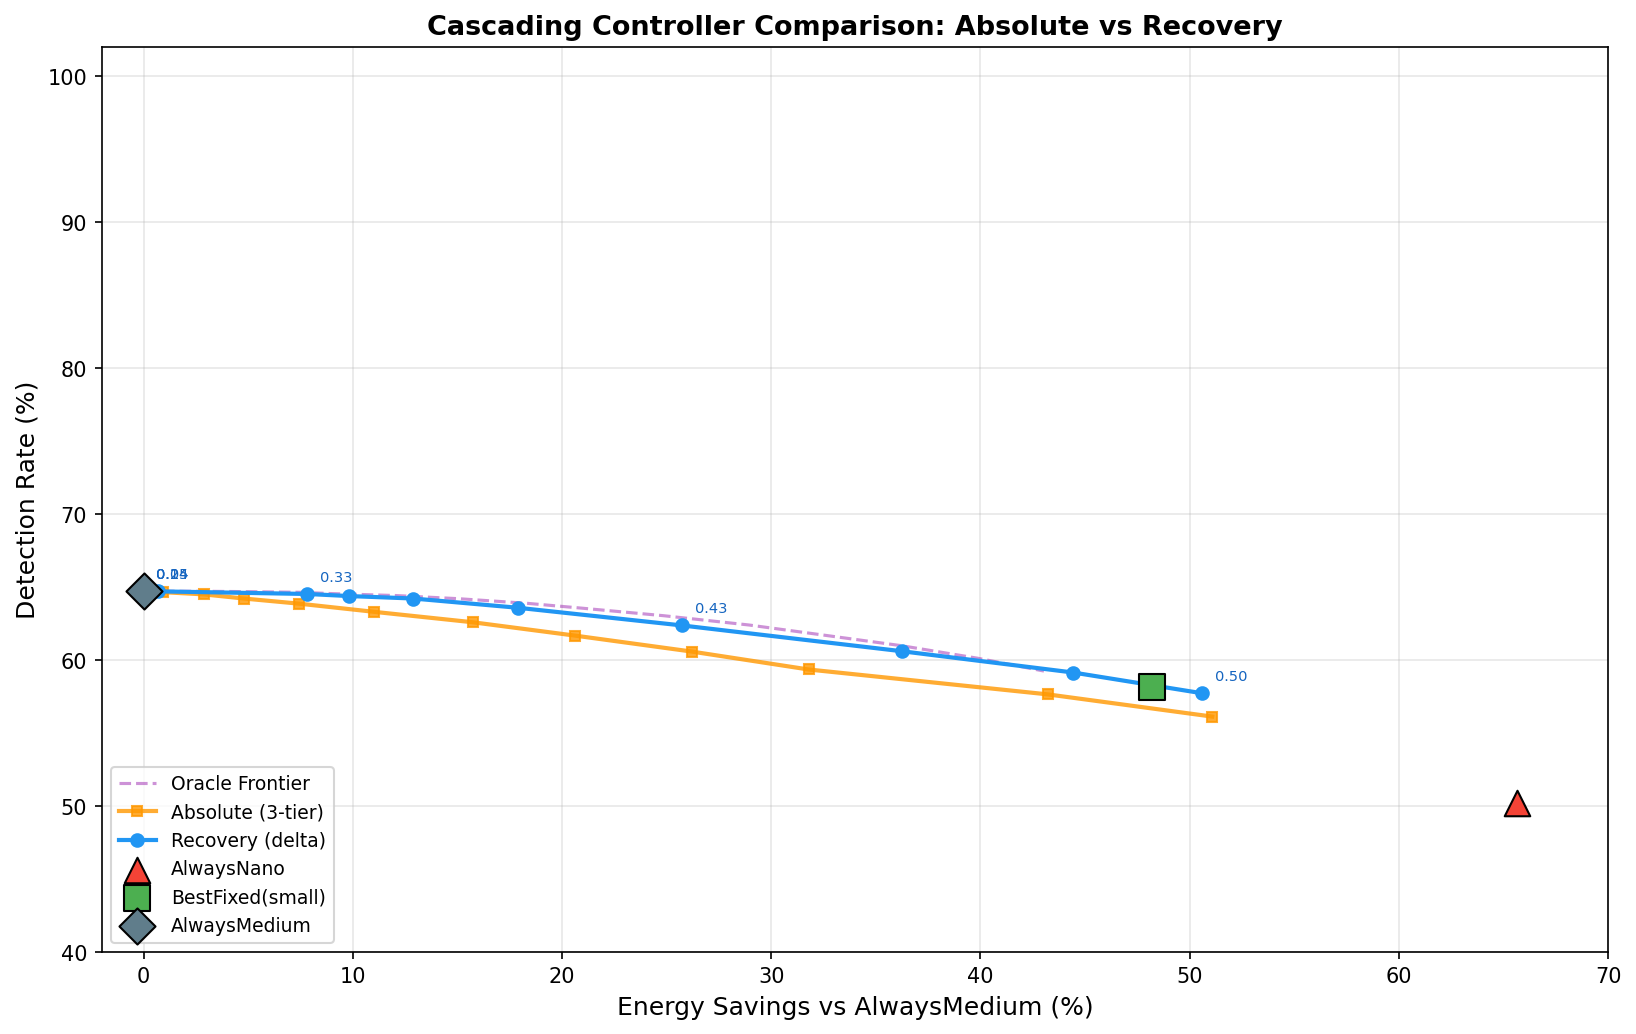
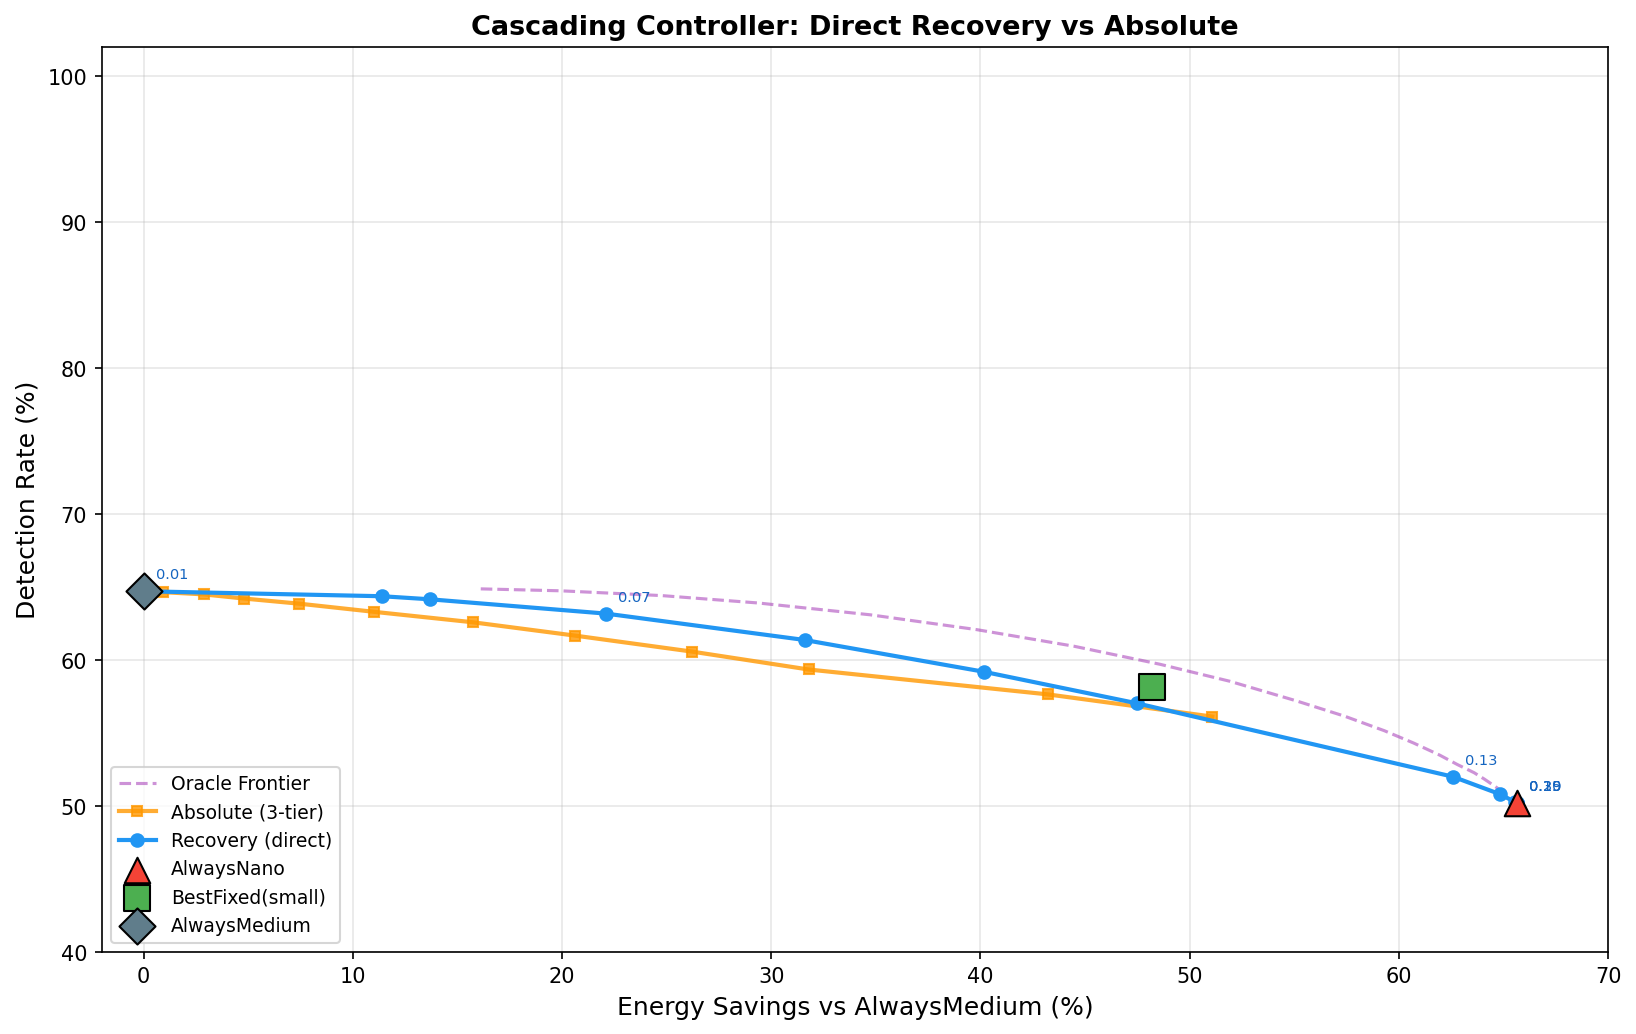
3tier: direct recovery controller — upgrade if recovery > min_recovery
Replace reconstruction-based controller with direct logic: start at nano,
upgrade to small if pred_recovery_ns > threshold, upgrade to medium if
pred_recovery_sm > threshold (independent checks). Beats absolute at high
detection (1-2% better at same energy, 0.04-0.09 range) with 2x fewer
model switches, but collapses past min_recovery=0.13 as deltas cluster
near zero.

diff --git a/3tier/cascading_direct.py b/3tier/cascading_direct.py
@@ -1,15 +1,14 @@
 #!/usr/bin/env python3
 """
-Recovery-based cascading controller + comparison with absolute controller.
+Direct recovery-based cascading controller + comparison with absolute controller.
 
-Controller logic (recovery-based):
-  1. Start with nano
-  2. If pred_nano > max_acceptable:
-     - Compute implied small miss rate: pred_nano - pred_recovery_ns
-     - If implied_small < max_acceptable: use small
-     - Else: use medium
+Controller logic — start with nano (cheapest), upgrade only if recovery
+justifies the energy cost:
+  - if pred_recovery_ns > min_recovery: upgrade to small
+  - if pred_recovery_sm > min_recovery: upgrade further to medium
+These are independent checks: a window could get small only, medium only, or both.
 
-Comparison plot overlays both approaches on a single accuracy-vs-energy chart.
+Comparison plot overlays recovery, absolute, and oracle on one chart.
 """
 
 import argparse
@@ -40,20 +39,23 @@ TRAIN_FRAC = 0.60
 # SELECTION FUNCTIONS
 # ═══════════════════════════════════════════════════════════════════
 
-def recovery_select(pred_nano, pred_recovery_ns, pred_recovery_sm, threshold):
-    """Recovery-based cascading: start with nano, upgrade if needed."""
-    n = len(pred_nano)
+def direct_select(pred_recovery_ns, pred_recovery_sm, min_recovery):
+    """Direct recovery-based cascading: start nano, upgrade if recovery > threshold."""
+    n = len(pred_recovery_ns)
     selections = np.zeros(n, dtype=int)  # default: nano
+    selections[pred_recovery_ns > min_recovery] = np.maximum(
+        selections[pred_recovery_ns > min_recovery], 1)
+    selections[pred_recovery_sm > min_recovery] = 2
+    return selections
 
-    needs_upgrade = pred_nano >= threshold
-    implied_small = pred_nano - pred_recovery_ns
-    small_ok = implied_small < threshold
 
-    # Upgrade to small where nano fails but implied small is OK
-    selections[needs_upgrade & small_ok] = 1
-    # Upgrade to medium where nano fails and small won't help enough
-    selections[needs_upgrade & ~small_ok] = 2
-
+def oracle_direct_select(true_recovery_ns, true_recovery_sm, min_recovery):
+    """Oracle version using true recovery values."""
+    n = len(true_recovery_ns)
+    selections = np.zeros(n, dtype=int)
+    selections[true_recovery_ns > min_recovery] = np.maximum(
+        selections[true_recovery_ns > min_recovery], 1)
+    selections[true_recovery_sm > min_recovery] = 2
     return selections
 
 
@@ -63,15 +65,6 @@ def absolute_select(pred_nano, pred_small, pred_medium, threshold):
     selections = np.full(n, 2, dtype=int)
     selections[pred_small < threshold] = 1
     selections[pred_nano < threshold] = 0
-    return selections
-
-
-def oracle_select(true_nano, true_small, true_medium, threshold):
-    """Oracle: cheapest model whose TRUE miss rate < threshold."""
-    n = len(true_nano)
-    selections = np.full(n, 2, dtype=int)
-    selections[true_small < threshold] = 1
-    selections[true_nano < threshold] = 0
     return selections
 
 
@@ -90,12 +83,17 @@ def evaluate_selections(selections, true_nano, true_small, true_medium):
     for i, name in enumerate(MODEL_NAMES):
         dist[name] = float(np.mean(selections == i) * 100.0)
 
+    # Switches per 100 windows
+    switches = float(np.sum(selections[1:] != selections[:-1]))
+    switches_per_100 = switches / max(n - 1, 1) * 100.0
+
     return {
         "detection_rate": detection_rate,
         "avg_energy_mj": avg_energy,
         "savings_pct": savings_vs_medium,
         "mean_miss_rate": float(selected_miss_rates.mean()),
         "model_distribution": dist,
+        "switches_per_100": switches_per_100,
     }
 
 
@@ -103,11 +101,22 @@ def evaluate_selections(selections, true_nano, true_small, true_medium):
 # SWEEP
 # ═══════════════════════════════════════════════════════════════════
 
-def sweep_recovery(pred_nano, pred_rec_ns, pred_rec_sm,
-                   true_nano, true_small, true_medium, thresholds):
+def sweep_direct(pred_rec_ns, pred_rec_sm,
+                 true_nano, true_small, true_medium, thresholds):
     results = []
     for thresh in thresholds:
-        sels = recovery_select(pred_nano, pred_rec_ns, pred_rec_sm, thresh)
+        sels = direct_select(pred_rec_ns, pred_rec_sm, thresh)
+        m = evaluate_selections(sels, true_nano, true_small, true_medium)
+        m["threshold"] = float(thresh)
+        results.append(m)
+    return results
+
+
+def sweep_oracle(true_rec_ns, true_rec_sm,
+                 true_nano, true_small, true_medium, thresholds):
+    results = []
+    for thresh in thresholds:
+        sels = oracle_direct_select(true_rec_ns, true_rec_sm, thresh)
         m = evaluate_selections(sels, true_nano, true_small, true_medium)
         m["threshold"] = float(thresh)
         results.append(m)
@@ -129,9 +138,9 @@ def sweep_absolute(pred_nano, pred_small, pred_medium,
 # PLOT
 # ═══════════════════════════════════════════════════════════════════
 
-def plot_comparison(recovery_results, absolute_results, oracle_results,
+def plot_comparison(direct_results, absolute_results, oracle_results,
                     ref_points, save_path):
-    """Overlay both controller curves + oracle on one plot."""
+    """Overlay direct recovery, absolute, and oracle on one plot."""
     fig, ax = plt.subplots(figsize=(11, 7))
 
     # Oracle frontier
@@ -146,15 +155,15 @@ def plot_comparison(recovery_results, absolute_results, oracle_results,
     ax.plot(ax_x, ax_y, "s-", color="#FF9800", linewidth=2, markersize=5,
             alpha=0.8, label="Absolute (3-tier)", zorder=4)
 
-    # Recovery controller curve
-    rx = [r["savings_pct"] for r in recovery_results]
-    ry = [r["detection_rate"] * 100 for r in recovery_results]
+    # Direct recovery controller curve
+    rx = [r["savings_pct"] for r in direct_results]
+    ry = [r["detection_rate"] * 100 for r in direct_results]
     ax.plot(rx, ry, "o-", color="#2196F3", linewidth=2, markersize=6,
-            label="Recovery (delta)", zorder=5)
+            label="Recovery (direct)", zorder=5)
 
-    # Annotate recovery thresholds
-    for i, r in enumerate(recovery_results):
-        if i % 4 == 0 or i == len(recovery_results) - 1:
+    # Annotate direct recovery thresholds
+    for i, r in enumerate(direct_results):
+        if i % 4 == 0 or i == len(direct_results) - 1:
             ax.annotate(f'{r["threshold"]:.2f}',
                         (r["savings_pct"], r["detection_rate"] * 100),
                         textcoords="offset points", xytext=(6, 6),
@@ -164,8 +173,6 @@ def plot_comparison(recovery_results, absolute_results, oracle_results,
     markers = {"AlwaysNano": ("^", "#F44336"), "BestFixed(small)": ("s", "#4CAF50"),
                "AlwaysMedium": ("D", "#607D8B")}
     for name, vals in ref_points.items():
-        if name not in markers:
-            continue
         mk, col = markers[name]
         ax.scatter(vals["savings_pct"], vals["detection_rate"] * 100,
                    marker=mk, s=150, color=col, edgecolors="black",
@@ -173,7 +180,7 @@ def plot_comparison(recovery_results, absolute_results, oracle_results,
 
     ax.set_xlabel("Energy Savings vs AlwaysMedium (%)", fontsize=12)
     ax.set_ylabel("Detection Rate (%)", fontsize=12)
-    ax.set_title("Cascading Controller Comparison: Absolute vs Recovery",
+    ax.set_title("Cascading Controller: Direct Recovery vs Absolute",
                  fontsize=13, fontweight="bold")
     ax.legend(loc="lower left", fontsize=9)
     ax.grid(True, alpha=0.3)
@@ -204,13 +211,12 @@ def main():
     split_idx = int(n * TRAIN_FRAC)
     test_rec = df_rec.iloc[split_idx:]
 
-    pred_nano_r = test_rec["pred_nano"].values
     pred_rec_ns = test_rec["pred_recovery_ns"].values
     pred_rec_sm = test_rec["pred_recovery_sm"].values
     true_nano_r = test_rec["true_nano"].values
     true_rec_ns = test_rec["true_recovery_ns"].values
     true_rec_sm = test_rec["true_recovery_sm"].values
-    # Reconstruct true absolute miss rates from recovery predictions
+    # Reconstruct true absolute miss rates
     true_small_r = true_nano_r - true_rec_ns
     true_medium_r = true_small_r - true_rec_sm
 
@@ -232,25 +238,24 @@ def main():
 
     print(f"  Absolute test split: {len(test_abs)} windows", flush=True)
 
-    # ── Sweep both controllers ──
-    thresholds = np.linspace(0.05, 0.50, 20)
+    # ── Sweep all controllers ──
+    thresholds = np.linspace(0.01, 0.30, 20)
 
-    recovery_results = sweep_recovery(
-        pred_nano_r, pred_rec_ns, pred_rec_sm,
+    direct_results = sweep_direct(
+        pred_rec_ns, pred_rec_sm,
         true_nano_r, true_small_r, true_medium_r, thresholds)
 
+    oracle_results = sweep_oracle(
+        true_rec_ns, true_rec_sm,
+        true_nano_r, true_small_r, true_medium_r, thresholds)
+
+    # Absolute uses different threshold range (0.05-0.50) for fair comparison
+    abs_thresholds = np.linspace(0.05, 0.50, 20)
     absolute_results = sweep_absolute(
         pred_nano_a, pred_small_a, pred_medium_a,
-        true_nano_a, true_small_a, true_medium_a, thresholds)
+        true_nano_a, true_small_a, true_medium_a, abs_thresholds)
 
-    oracle_results = []
-    for thresh in thresholds:
-        sels = oracle_select(true_nano_a, true_small_a, true_medium_a, thresh)
-        m = evaluate_selections(sels, true_nano_a, true_small_a, true_medium_a)
-        m["threshold"] = float(thresh)
-        oracle_results.append(m)
-
-    # ── Reference points ──
+    # ── Reference points (use recovery true values) ──
     ref_nano = evaluate_selections(
         np.zeros(n_test, dtype=int), true_nano_r, true_small_r, true_medium_r)
     ref_small = evaluate_selections(
@@ -264,55 +269,72 @@ def main():
         "AlwaysMedium": ref_medium,
     }
 
-    # ── Print recovery results ──
-    print(f"\n{'='*110}")
-    print(f"  RECOVERY Controller Results (test split, n={n_test})")
-    print(f"{'='*110}")
-    print(f"{'Threshold':>10s} | {'DetRate%':>8s} | {'Savings%':>8s} | "
+    # ── Print direct recovery results ──
+    print(f"\n{'='*120}")
+    print(f"  DIRECT RECOVERY Controller Results (test split, n={n_test})")
+    print(f"{'='*120}")
+    print(f"{'MinRecov':>10s} | {'DetRate%':>8s} | {'Savings%':>8s} | "
           f"{'AvgEnergy':>10s} | {'MissRate':>8s} | "
-          f"{'Nano%':>6s} {'Small%':>6s} {'Med%':>6s}")
-    print("-" * 110)
+          f"{'Nano%':>6s} {'Small%':>6s} {'Med%':>6s} | {'Sw/100':>6s}")
+    print("-" * 120)
 
-    for r in recovery_results:
+    for r in direct_results:
         d = r["model_distribution"]
         print(f"{r['threshold']:>10.3f} | {r['detection_rate']*100:>7.1f}% | "
               f"{r['savings_pct']:>7.1f}% | {r['avg_energy_mj']:>9.1f} | "
               f"{r['mean_miss_rate']:>8.4f} | "
-              f"{d['nano']:>5.1f}% {d['small']:>5.1f}% {d['medium']:>5.1f}%")
+              f"{d['nano']:>5.1f}% {d['small']:>5.1f}% {d['medium']:>5.1f}% | "
+              f"{r['switches_per_100']:>5.1f}")
 
-    # ── Side-by-side comparison at key thresholds ──
-    print(f"\n{'='*110}")
-    print(f"  HEAD-TO-HEAD COMPARISON (same threshold)")
-    print(f"{'='*110}")
-    print(f"{'Thresh':>7s} | {'Recovery':>28s} | {'Absolute':>28s} | {'Oracle':>28s}")
-    print(f"{'':>7s} | {'det%':>8s} {'sav%':>8s} {'N/S/M':>10s} | "
-          f"{'det%':>8s} {'sav%':>8s} {'N/S/M':>10s} | "
-          f"{'det%':>8s} {'sav%':>8s} {'N/S/M':>10s}")
-    print("-" * 110)
+    # ── Oracle results ──
+    print(f"\n{'='*120}")
+    print(f"  ORACLE (true recovery values)")
+    print(f"{'='*120}")
+    for r in oracle_results:
+        d = r["model_distribution"]
+        print(f"{r['threshold']:>10.3f} | {r['detection_rate']*100:>7.1f}% | "
+              f"{r['savings_pct']:>7.1f}% | {r['avg_energy_mj']:>9.1f} | "
+              f"{r['mean_miss_rate']:>8.4f} | "
+              f"{d['nano']:>5.1f}% {d['small']:>5.1f}% {d['medium']:>5.1f}% | "
+              f"{r['switches_per_100']:>5.1f}")
+
+    # ── Head-to-head at comparable savings levels ──
+    print(f"\n{'='*120}")
+    print(f"  HEAD-TO-HEAD COMPARISON")
+    print(f"{'='*120}")
+    print(f"{'':>12s} | {'Direct Recovery':>35s} | {'Absolute (3-tier)':>35s} | {'Oracle':>35s}")
+    print(f"{'MinRec/Thr':>12s} | {'det%':>8s} {'sav%':>8s} {'N/S/M':>10s} {'sw':>5s} | "
+          f"{'det%':>8s} {'sav%':>8s} {'N/S/M':>10s} {'sw':>5s} | "
+          f"{'det%':>8s} {'sav%':>8s} {'N/S/M':>10s} {'sw':>5s}")
+    print("-" * 120)
 
     for i in range(len(thresholds)):
-        rr = recovery_results[i]
-        ar = absolute_results[i]
+        rr = direct_results[i]
         orc = oracle_results[i]
-        rd, ad, od = rr["model_distribution"], ar["model_distribution"], orc["model_distribution"]
-        print(f"{thresholds[i]:>7.3f} | "
+        rd, od = rr["model_distribution"], orc["model_distribution"]
+        # Find closest absolute result by savings
+        j = min(range(len(absolute_results)),
+                key=lambda k: abs(absolute_results[k]["savings_pct"] - rr["savings_pct"]))
+        ar = absolute_results[j]
+        ad = ar["model_distribution"]
+        print(f"{thresholds[i]:>12.3f} | "
               f"{rr['detection_rate']*100:>7.1f}% {rr['savings_pct']:>7.1f}% "
-              f"{rd['nano']:>3.0f}/{rd['small']:>3.0f}/{rd['medium']:>3.0f} | "
+              f"{rd['nano']:>3.0f}/{rd['small']:>3.0f}/{rd['medium']:>3.0f} {rr['switches_per_100']:>4.1f} | "
               f"{ar['detection_rate']*100:>7.1f}% {ar['savings_pct']:>7.1f}% "
-              f"{ad['nano']:>3.0f}/{ad['small']:>3.0f}/{ad['medium']:>3.0f} | "
+              f"{ad['nano']:>3.0f}/{ad['small']:>3.0f}/{ad['medium']:>3.0f} {ar['switches_per_100']:>4.1f} | "
               f"{orc['detection_rate']*100:>7.1f}% {orc['savings_pct']:>7.1f}% "
-              f"{od['nano']:>3.0f}/{od['small']:>3.0f}/{od['medium']:>3.0f}")
+              f"{od['nano']:>3.0f}/{od['small']:>3.0f}/{od['medium']:>3.0f} {orc['switches_per_100']:>4.1f}")
 
     print(f"\nBaselines:")
     for name, r in [("AlwaysNano", ref_nano), ("BestFixed(small)", ref_small),
                     ("AlwaysMedium", ref_medium)]:
         print(f"  {name:20s} | det={r['detection_rate']*100:.1f}% | "
-              f"savings={r['savings_pct']:.1f}%")
-    print(f"{'='*110}")
+              f"savings={r['savings_pct']:.1f}% | sw/100={r['switches_per_100']:.1f}")
+    print(f"{'='*120}")
 
     # ── Plot comparison ──
-    plot_path = SCRIPT_DIR / "comparison_abs_vs_recovery.png"
-    plot_comparison(recovery_results, absolute_results, oracle_results,
+    plot_path = SCRIPT_DIR / "accuracy_vs_energy_comparison.png"
+    plot_comparison(direct_results, absolute_results, oracle_results,
                     ref_points, plot_path)
 
 
